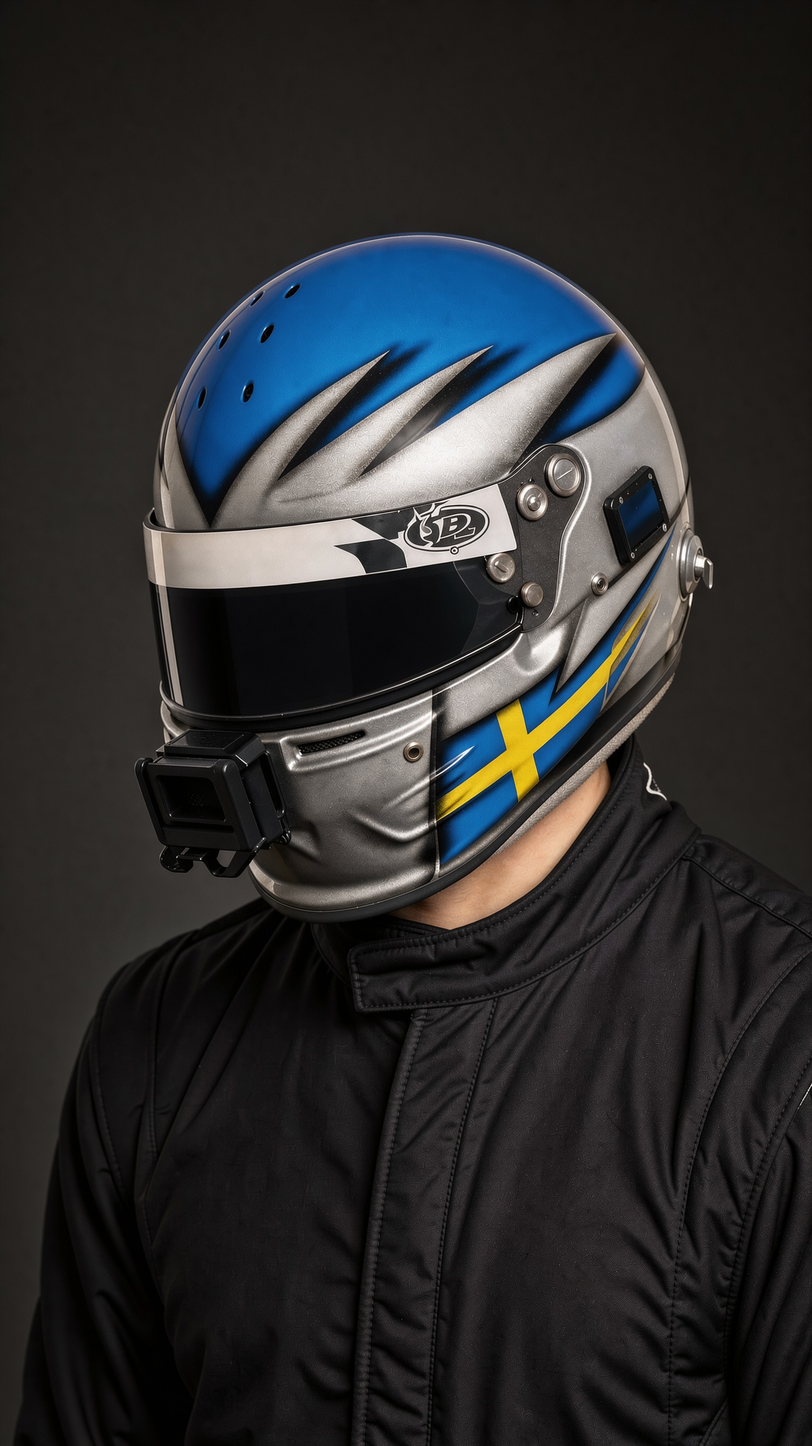
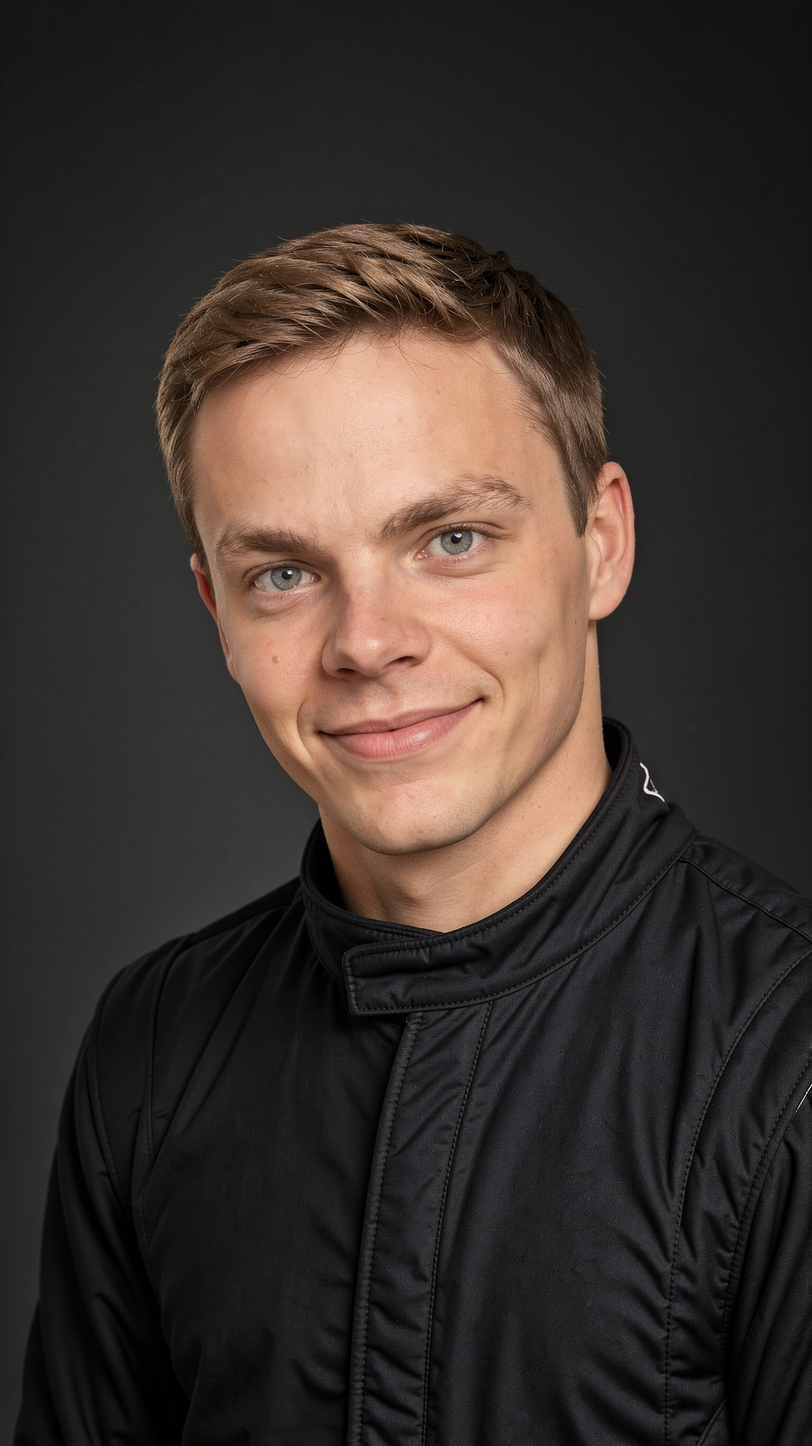
feat: hero reveal SE-hjälm → ansikte utan hjälm (R03)
START = svenska-flagg-hjälm + mörkt visir; REVEAL-lager = alignat ansikte.
MERGA INTE.

diff --git a/src/components/ben/BenHero.tsx b/src/components/ben/BenHero.tsx
@@ -7,13 +7,13 @@ import type { Lang } from "@/lib/dictionary";
 const COPY = {
   sv: {
     tagline: "Hyrkartförare från Dalarna. VM-brons 2016.",
-    hint2: "SCROLLA",
-    alt: "Rickard Javanainen i racingställ och hjälm med mörkt visir",
+    hint2: "SCROLLA FÖR ATT AVSLÖJA",
+    alt: "Rickard Javanainen — hjälm med svenska flaggan, scrolla för att se ansiktet",
   },
   en: {
     tagline: "Rental kart racer from Dalarna. Worlds bronze 2016.",
-    hint2: "SCROLL",
-    alt: "Rickard Javanainen in race suit and helmet with a dark visor",
+    hint2: "SCROLL TO REVEAL",
+    alt: "Rickard Javanainen — Swedish-flag helmet, scroll to reveal his face",
   },
 } as const;
 
